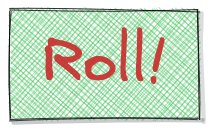
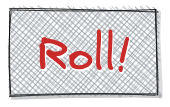
💄  Roll Button updated

diff --git a/client/screens/Game/GamingLogic/GamingLogicScreen.jsx b/client/screens/Game/GamingLogic/GamingLogicScreen.jsx
@@ -19,7 +19,7 @@ import { useEffect, useState } from "react";
 
 import shakeSound from "../../../assets/RATTLE.wav";
 import fail from "../../../assets/sounds/fail.wav";
-import rollButton from "../../../assets/buttons/rollButton.png";
+import rollButton from "../../../assets/buttons/roll-button.png";
 import CustomButton from "../../../components/Button";
 import diceLivePressSound from "../../../assets/sounds/take.wav";
 import diceKeptPressSound from "../../../assets/sounds/smrpg_click.wav";
@@ -127,7 +127,7 @@ const GameLogicScreen = ({
         />
       </View>
 
-      <View className="w-36 mt-24 flex self-center">
+      <View className="w-38 mt-24 flex self-center">
         <CustomButton imageSource={rollButton} onPress={clickRollDice} />
       </View>
     </View>
